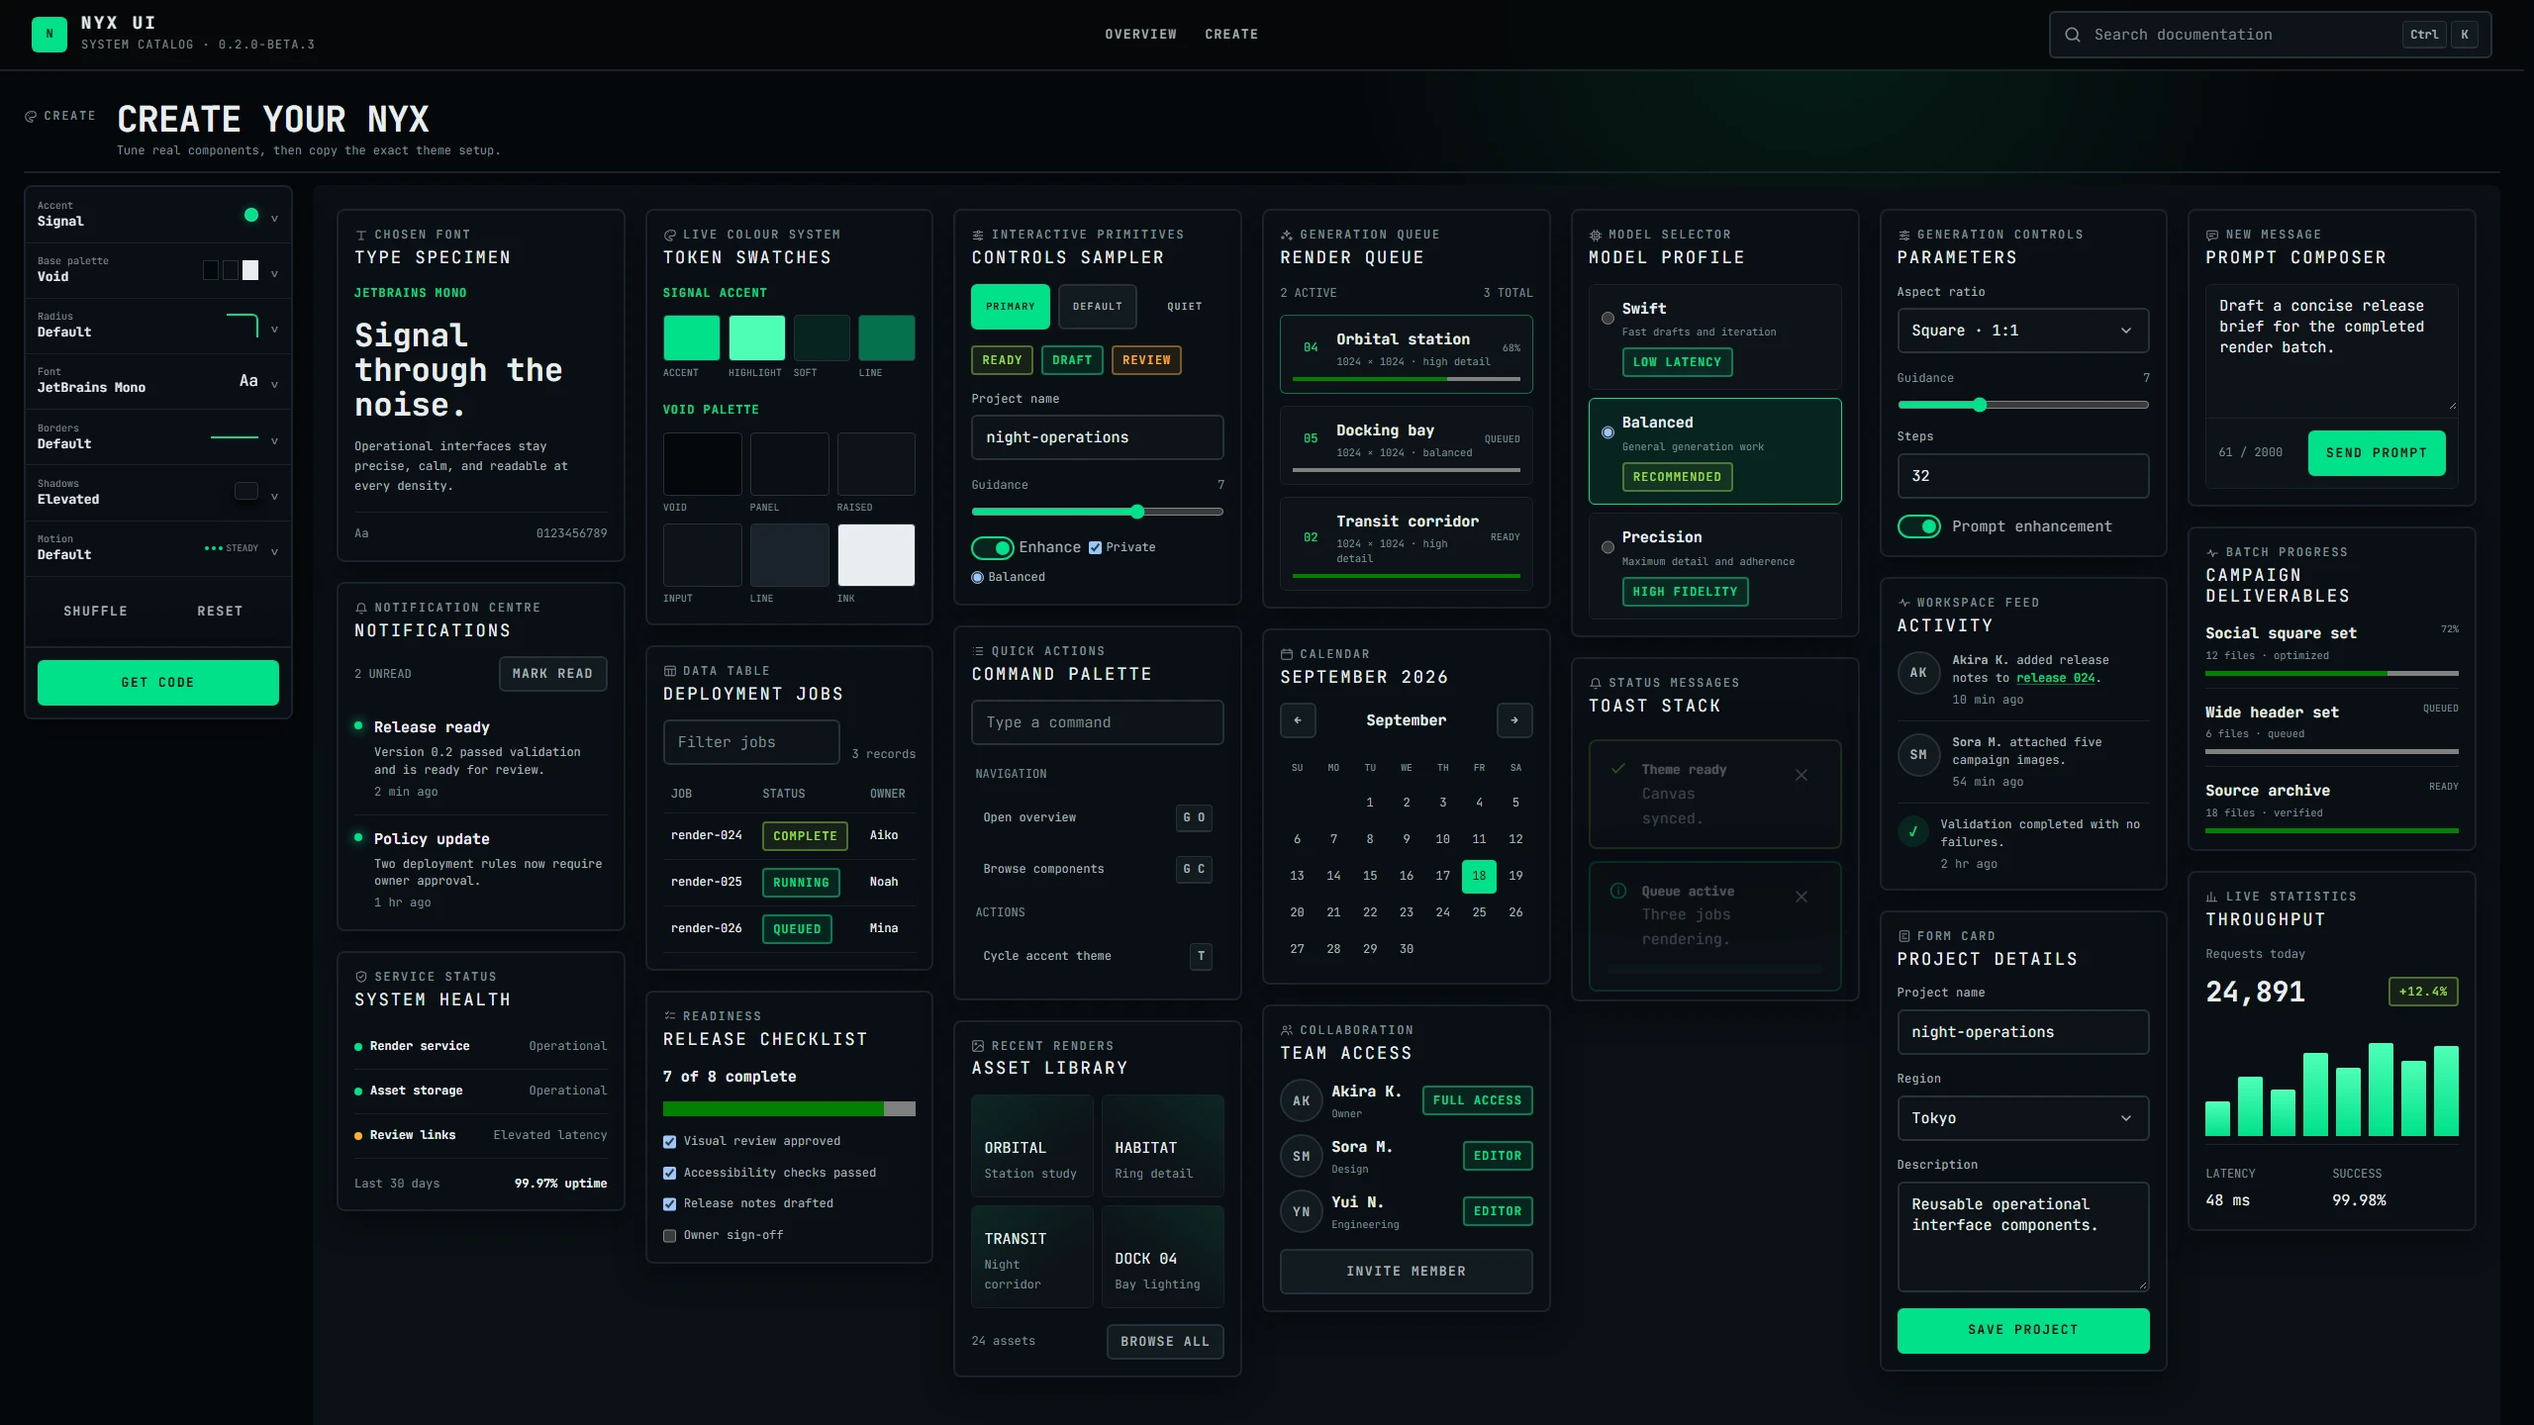
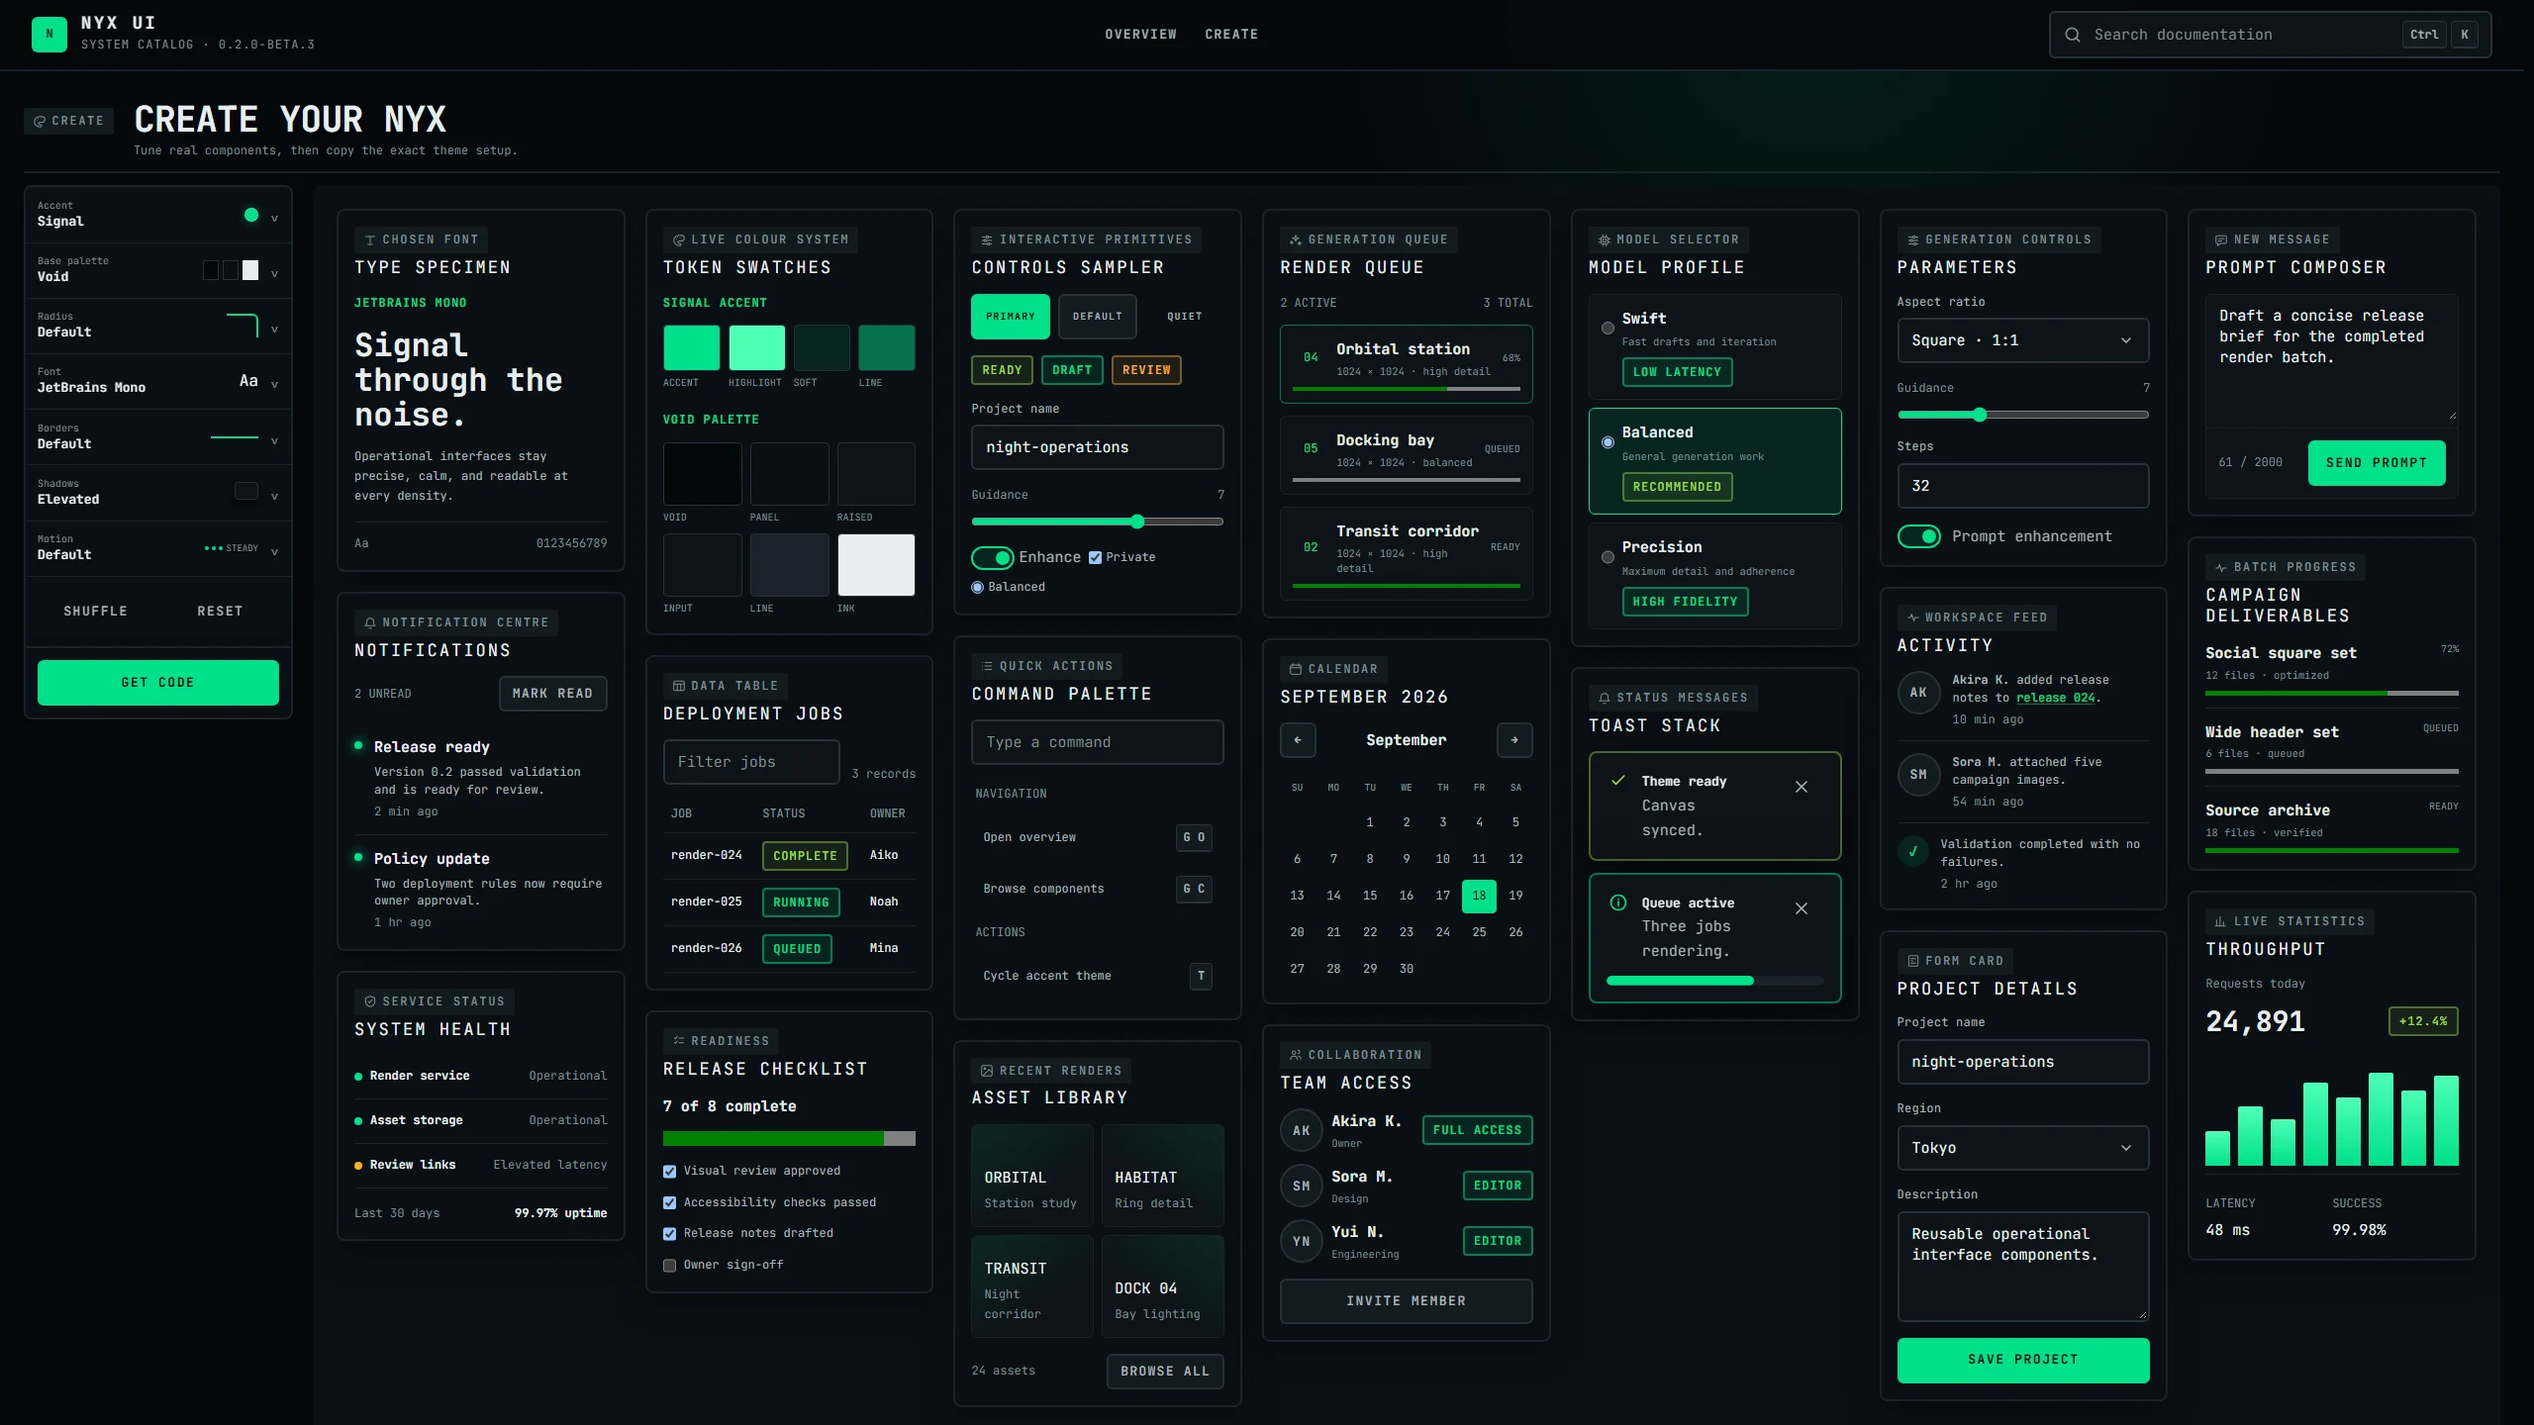
feat(core): add solid badge appearances

diff --git a/packages/core/src/components.css b/packages/core/src/components.css
@@ -52,7 +52,7 @@
   .nyx-kbd, .nyx-kbd-chord { font-family: var(--font-nyx); }
   .nyx-kbd { display: inline-flex; min-inline-size: 1.75rem; min-block-size: 1.75rem; align-items: center; justify-content: center; padding: 0.1875rem 0.4375rem; border: var(--nyx-border-hairline) solid var(--nyx-line-strong); border-block-end-width: var(--nyx-border); border-radius: var(--nyx-radius-sm); background: var(--nyx-chip); color: var(--nyx-muted); font-size: var(--nyx-type-label); font-weight: var(--nyx-weight-semibold); line-height: 1; }
   .nyx-kbd-chord { display: inline-flex; align-items: center; gap: var(--nyx-space-1); color: var(--nyx-label); font-size: var(--nyx-type-label); }
-  .nyx-eyebrow { display: inline-flex; align-items: center; gap: 0.4rem; color: var(--nyx-label); font-size: var(--nyx-type-meta); font-weight: var(--nyx-weight-semibold); letter-spacing: 0.14em; line-height: 1.4; text-transform: uppercase; }
+  .nyx-eyebrow { display: inline-flex; inline-size: fit-content; max-inline-size: 100%; align-items: center; align-self: start; justify-self: start; gap: 0.35rem; padding: 0.1875rem 0.4375rem; border: var(--nyx-border) solid transparent; border-radius: var(--nyx-radius-xs); background: var(--nyx-chip); color: var(--nyx-label); font-size: var(--nyx-type-meta); font-weight: var(--nyx-weight-semibold); letter-spacing: 0.14em; line-height: 1.4; text-transform: uppercase; }
   .nyx-eyebrow > svg { inline-size: 0.875rem; block-size: 0.875rem; flex: none; fill: none; stroke: currentColor; stroke-linecap: round; stroke-linejoin: round; stroke-width: 1.75; vector-effect: non-scaling-stroke; }
   .nyx-label { color: var(--nyx-muted); font-size: var(--nyx-type-label); font-weight: var(--nyx-weight-regular); letter-spacing: 0.02em; line-height: 1.4; text-transform: none; }
 
@@ -162,9 +162,16 @@
   .nyx-icon-sample > code { color: var(--nyx-label); font: var(--nyx-weight-medium) var(--nyx-type-meta)/1.4 var(--font-nyx); }
 
   .nyx-badge { display: inline-flex; min-height: 1.75rem; align-items: center; gap: 0.4375rem; padding: 0.25rem 0.5625rem; border: var(--nyx-border) solid var(--nyx-accent-line); border-radius: var(--nyx-radius-sm); background: var(--nyx-accent-soft); color: var(--nyx-accent); font-size: var(--nyx-type-label); font-weight: var(--nyx-weight-semibold); letter-spacing: var(--nyx-track-meta); line-height: 1.5; text-transform: uppercase; }
+  .nyx-badge > svg { inline-size: 0.875rem; block-size: 0.875rem; flex: none; fill: none; stroke: currentColor; stroke-linecap: round; stroke-linejoin: round; stroke-width: 1.75; vector-effect: non-scaling-stroke; }
   .nyx-badge[data-tone="success"] { border-color: var(--nyx-signal-line); background: var(--nyx-signal-soft); color: var(--nyx-signal); }
   .nyx-badge[data-tone="warning"] { border-color: var(--nyx-warning-line); background: var(--nyx-warning-soft); color: var(--nyx-warning); }
   .nyx-badge[data-tone="danger"] { border-color: var(--nyx-danger-line); background: var(--nyx-danger-soft); color: var(--nyx-danger); }
+  .nyx-badge[data-tone="neutral"] { border-color: var(--nyx-line-strong); background: var(--nyx-chip); color: var(--nyx-label); }
+  .nyx-badge[data-appearance="solid"] { border-color: transparent; background: var(--nyx-accent); color: var(--nyx-accent-ink); }
+  .nyx-badge[data-appearance="solid"][data-tone="success"] { background: var(--nyx-signal); color: var(--nyx-signal-ink); }
+  .nyx-badge[data-appearance="solid"][data-tone="warning"] { background: var(--nyx-warning); color: var(--nyx-warning-ink); }
+  .nyx-badge[data-appearance="solid"][data-tone="danger"] { background: var(--nyx-danger); color: var(--nyx-danger-ink); }
+  .nyx-badge[data-appearance="solid"][data-tone="neutral"] { background: var(--nyx-chip); color: var(--nyx-label); }
   .nyx-status-list { display: flex; flex-wrap: wrap; gap: var(--nyx-space-3); margin: 0; padding: 0; list-style: none; }
   .nyx-status-indicator { display: inline-flex; min-block-size: 1.75rem; align-items: center; gap: var(--nyx-space-2); color: var(--nyx-muted); font-size: var(--nyx-type-label); font-weight: var(--nyx-weight-semibold); line-height: 1.4; }
   .nyx-status-indicator[data-tone="success"] { color: var(--nyx-signal); }

diff --git a/registry/components/feedback.html b/registry/components/feedback.html
@@ -1,8 +1,32 @@
-<div class="nyx-cluster" data-nyx-example="badges" aria-label="Status badges">
-  <span class="nyx-badge">Active</span>
-  <span class="nyx-badge" data-tone="success">Success</span>
-  <span class="nyx-badge" data-tone="warning">Warning</span>
-  <span class="nyx-badge" data-tone="danger">Failed</span>
+<div class="nyx-stack" data-nyx-example="badges" aria-label="Badge appearances">
+  <section class="nyx-stack" aria-labelledby="badge-default-title">
+    <h3 id="badge-default-title">Default</h3>
+    <div class="nyx-cluster">
+      <span class="nyx-badge">Active</span>
+      <span class="nyx-badge" data-tone="success">Success</span>
+      <span class="nyx-badge" data-tone="warning">Warning</span>
+      <span class="nyx-badge" data-tone="danger">Failed</span>
+    </div>
+  </section>
+  <section class="nyx-stack" data-badge-example="with-icon" aria-labelledby="badge-icon-title">
+    <h3 id="badge-icon-title">With icon</h3>
+    <div class="nyx-cluster">
+      <span class="nyx-badge"><svg aria-hidden="true" viewBox="0 0 24 24"><path d="M3 12h4l2-6 4 12 2-6h6"/></svg>Active</span>
+      <span class="nyx-badge" data-tone="success"><svg aria-hidden="true" viewBox="0 0 24 24"><path d="m5 12 4 4L19 6"/></svg>Success</span>
+      <span class="nyx-badge" data-tone="warning"><svg aria-hidden="true" viewBox="0 0 24 24"><path d="M12 9v4m0 4h.01"/><path d="M10.3 3.7 2.2 18a2 2 0 0 0 1.8 3h16a2 2 0 0 0 1.8-3L13.7 3.7a2 2 0 0 0-3.4 0Z"/></svg>Warning</span>
+      <span class="nyx-badge" data-tone="danger"><svg aria-hidden="true" viewBox="0 0 24 24"><circle cx="12" cy="12" r="9"/><path d="m9 9 6 6m0-6-6 6"/></svg>Failed</span>
+    </div>
+  </section>
+  <section class="nyx-stack" data-badge-example="solid" aria-labelledby="badge-solid-title">
+    <h3 id="badge-solid-title">Solid</h3>
+    <div class="nyx-cluster">
+      <span class="nyx-badge" data-appearance="solid"><svg aria-hidden="true" viewBox="0 0 24 24"><path d="M3 12h4l2-6 4 12 2-6h6"/></svg>Active</span>
+      <span class="nyx-badge" data-appearance="solid" data-tone="success"><svg aria-hidden="true" viewBox="0 0 24 24"><path d="m5 12 4 4L19 6"/></svg>Success</span>
+      <span class="nyx-badge" data-appearance="solid" data-tone="warning"><svg aria-hidden="true" viewBox="0 0 24 24"><path d="M12 9v4m0 4h.01"/><path d="M10.3 3.7 2.2 18a2 2 0 0 0 1.8 3h16a2 2 0 0 0 1.8-3L13.7 3.7a2 2 0 0 0-3.4 0Z"/></svg>Warning</span>
+      <span class="nyx-badge" data-appearance="solid" data-tone="danger"><svg aria-hidden="true" viewBox="0 0 24 24"><circle cx="12" cy="12" r="9"/><path d="m9 9 6 6m0-6-6 6"/></svg>Failed</span>
+      <span class="nyx-badge" data-appearance="solid" data-tone="neutral"><svg aria-hidden="true" viewBox="0 0 24 24"><path d="m4 7 8-4 8 4-8 4Z"/><path d="m4 7 8 4 8-4v10l-8 4-8-4Z"/><path d="M12 11v10"/></svg>Neutral</span>
+    </div>
+  </section>
 </div>
 
 <div class="nyx-alert-catalog" data-nyx-example="alerts">

diff --git a/packages/plugins/test/create-generator.test.ts b/packages/plugins/test/create-generator.test.ts
@@ -1,5 +1,8 @@
+import { readFileSync } from "node:fs";
+import { resolve } from "node:path";
 import { describe, expect, it } from "vitest";
 import {
+  accentTokens,
   accentInk,
   contrastRatio,
   decodeCreateOptions,
@@ -10,6 +13,14 @@ import {
   tokensForOptions,
   type CreateOptions,
 } from "../../../apps/docs/src/create/generate.js";
+
+const coreTokens = readFileSync(resolve(process.cwd(), "../core/src/tokens.css"), "utf8");
+
+function coreToken(name: string): string {
+  const value = coreTokens.match(new RegExp(`^\\s*${name}:\\s*(#[0-9a-f]{6});`, "im"))?.[1];
+  if (!value) throw new Error(`Missing hex token ${name}`);
+  return value;
+}
 
 function options(change: Partial<CreateOptions> = {}): CreateOptions {
   return { ...defaultCreateOptions, ...change };
@@ -84,6 +95,25 @@ describe("create theme generator", () => {
     Object.values(paletteTokens).forEach((palette) => {
       expect(contrastRatio(palette["--nyx-panel"]!, palette["--nyx-ink"]!)).toBeGreaterThanOrEqual(4.5);
       expect(contrastRatio(palette["--nyx-panel"]!, palette["--nyx-muted"]!)).toBeGreaterThanOrEqual(4.5);
+    });
+  });
+
+  it("keeps every solid badge tone AA against every base palette", () => {
+    const semanticPairs = [
+      [coreToken("--nyx-signal"), coreToken("--nyx-signal-ink")],
+      [coreToken("--nyx-warning"), coreToken("--nyx-warning-ink")],
+      [coreToken("--nyx-danger"), coreToken("--nyx-danger-ink")],
+    ] as const;
+
+    Object.entries(paletteTokens).forEach(([paletteName, palette]) => {
+      const tonePairs = [
+        [palette["--nyx-chip"]!, palette["--nyx-label"]!],
+        ...Object.values(accentTokens).map((accent) => [accent["--nyx-accent"]!, accent["--nyx-accent-ink"]!] as const),
+        ...semanticPairs,
+      ];
+      tonePairs.forEach(([fill, ink]) => {
+        expect(contrastRatio(fill, ink), `${paletteName}: ${ink} on ${fill}`).toBeGreaterThanOrEqual(4.5);
+      });
     });
   });
 

diff --git a/apps/docs/src/catalog/feedback.ts b/apps/docs/src/catalog/feedback.ts
@@ -15,8 +15,8 @@ export const feedbackPages = [
     categoryLabel: "Feedback",
     title: "Badges",
     description,
-    searchTerms: "badge status active success warning danger failed",
-    body: `<section class="docs-prose-section"><h2>Use for compact, non-interactive metadata</h2><p>Badges label state or category beside primary content. Their text carries the meaning; tone must not be the only distinction. Use a button or link when the label performs an action, and use Status Indicator when the state needs a dot-and-label treatment.</p></section>${card("Badges", selectMarkup(feedbackMarkup, ["[data-nyx-example='badges']"]), "Registry source")}`,
+    searchTerms: "badge status active success warning danger failed solid outlined icon neutral section label",
+    body: `<section class="docs-prose-section"><h2>Use for compact, non-interactive metadata</h2><p>Badges label state or category beside primary content. Their text carries the meaning; tone must not be the only distinction. Use solid badges for high-emphasis status and section labels, and keep the default outlined appearance for dense tables and lists. Use a button or link when the label performs an action, and use Status Indicator when the state needs a dot-and-label treatment.</p></section>${card("Badges", selectMarkup(feedbackMarkup, ["[data-nyx-example='badges']"]), "Registry source")}`,
   }),
   page({
     path: paths.components.feedback.alerts,

diff --git a/tests/browser/docs.spec.ts b/tests/browser/docs.spec.ts
@@ -36,6 +36,21 @@ test("the documentation shell remains bounded and functional type remains stable
   }
 });
 
+test("badges render icon and solid examples while page eyebrows stay filled", async ({ page }) => {
+  await expectPage(page, "/components/feedback/badges", "Badges");
+
+  const withIcon = page.locator('[data-badge-example="with-icon"]');
+  const solid = page.locator('[data-badge-example="solid"]');
+  await expect(withIcon.locator(".nyx-badge > svg")).toHaveCount(4);
+  await expect(solid.locator('.nyx-badge[data-appearance="solid"]')).toHaveCount(5);
+  await expect(solid.locator(".nyx-badge > svg")).toHaveCount(5);
+  expect(await withIcon.locator(".nyx-badge > svg").evaluateAll((icons) => icons.every((icon) => icon.getAttribute("aria-hidden") === "true"))).toBe(true);
+
+  const eyebrowBackground = await page.locator(".docs-page-header > .nyx-eyebrow").evaluate((element) => getComputedStyle(element).backgroundColor);
+  expect(eyebrowBackground).not.toBe("rgba(0, 0, 0, 0)");
+  expect(eyebrowBackground).not.toBe("transparent");
+});
+
 test("the focusable visually-hidden utility is bounded and returns to natural flow on focus", async ({ page }) => {
   await page.setViewportSize({ width: 390, height: 844 });
   await expectPage(page, "/components/primitives/visually-hidden", "Visually Hidden");

diff --git a/packages/core/src/tokens.css b/packages/core/src/tokens.css
@@ -65,12 +65,15 @@
   --nyx-accent-line: rgb(245 217 10 / 48%);
   /* Semantic colours stay independent of every theme's action accent. */
   --nyx-signal: #9cdb4a;
+  --nyx-signal-ink: #05080b;
   --nyx-signal-soft: rgb(156 219 74 / 9%);
   --nyx-signal-line: rgb(156 219 74 / 42%);
   --nyx-warning: #ffb02e;
+  --nyx-warning-ink: #05080b;
   --nyx-warning-soft: rgb(255 176 46 / 9%);
   --nyx-warning-line: rgb(255 176 46 / 42%);
   --nyx-danger: #ff4d5d;
+  --nyx-danger-ink: #05080b;
   --nyx-danger-soft: rgb(255 77 93 / 10%);
   --nyx-danger-line: rgb(255 77 93 / 48%);
   --nyx-info: #6da8ff;
